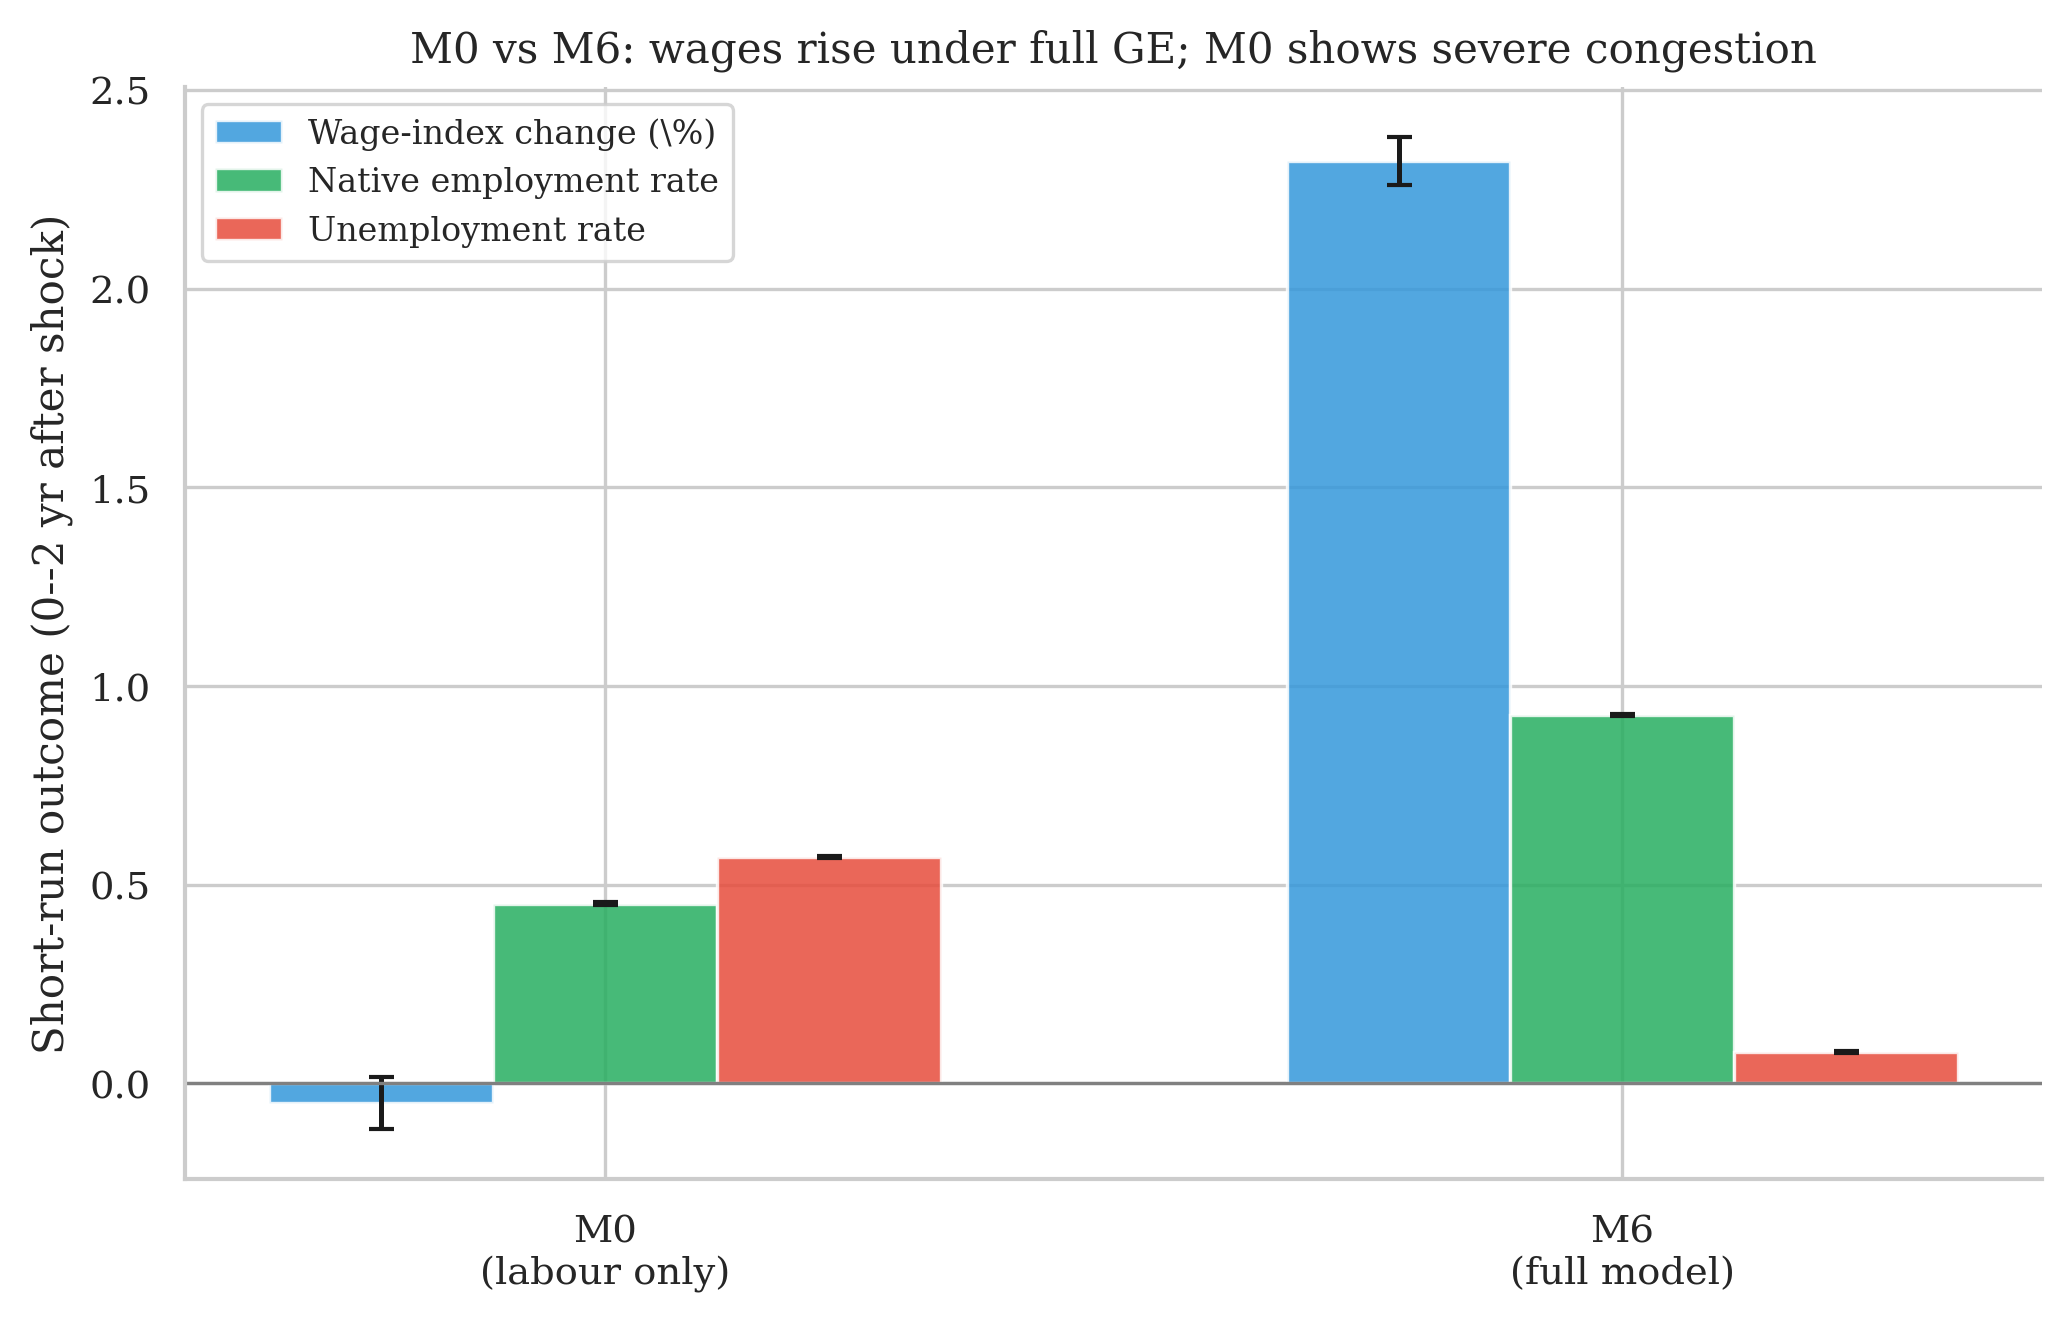
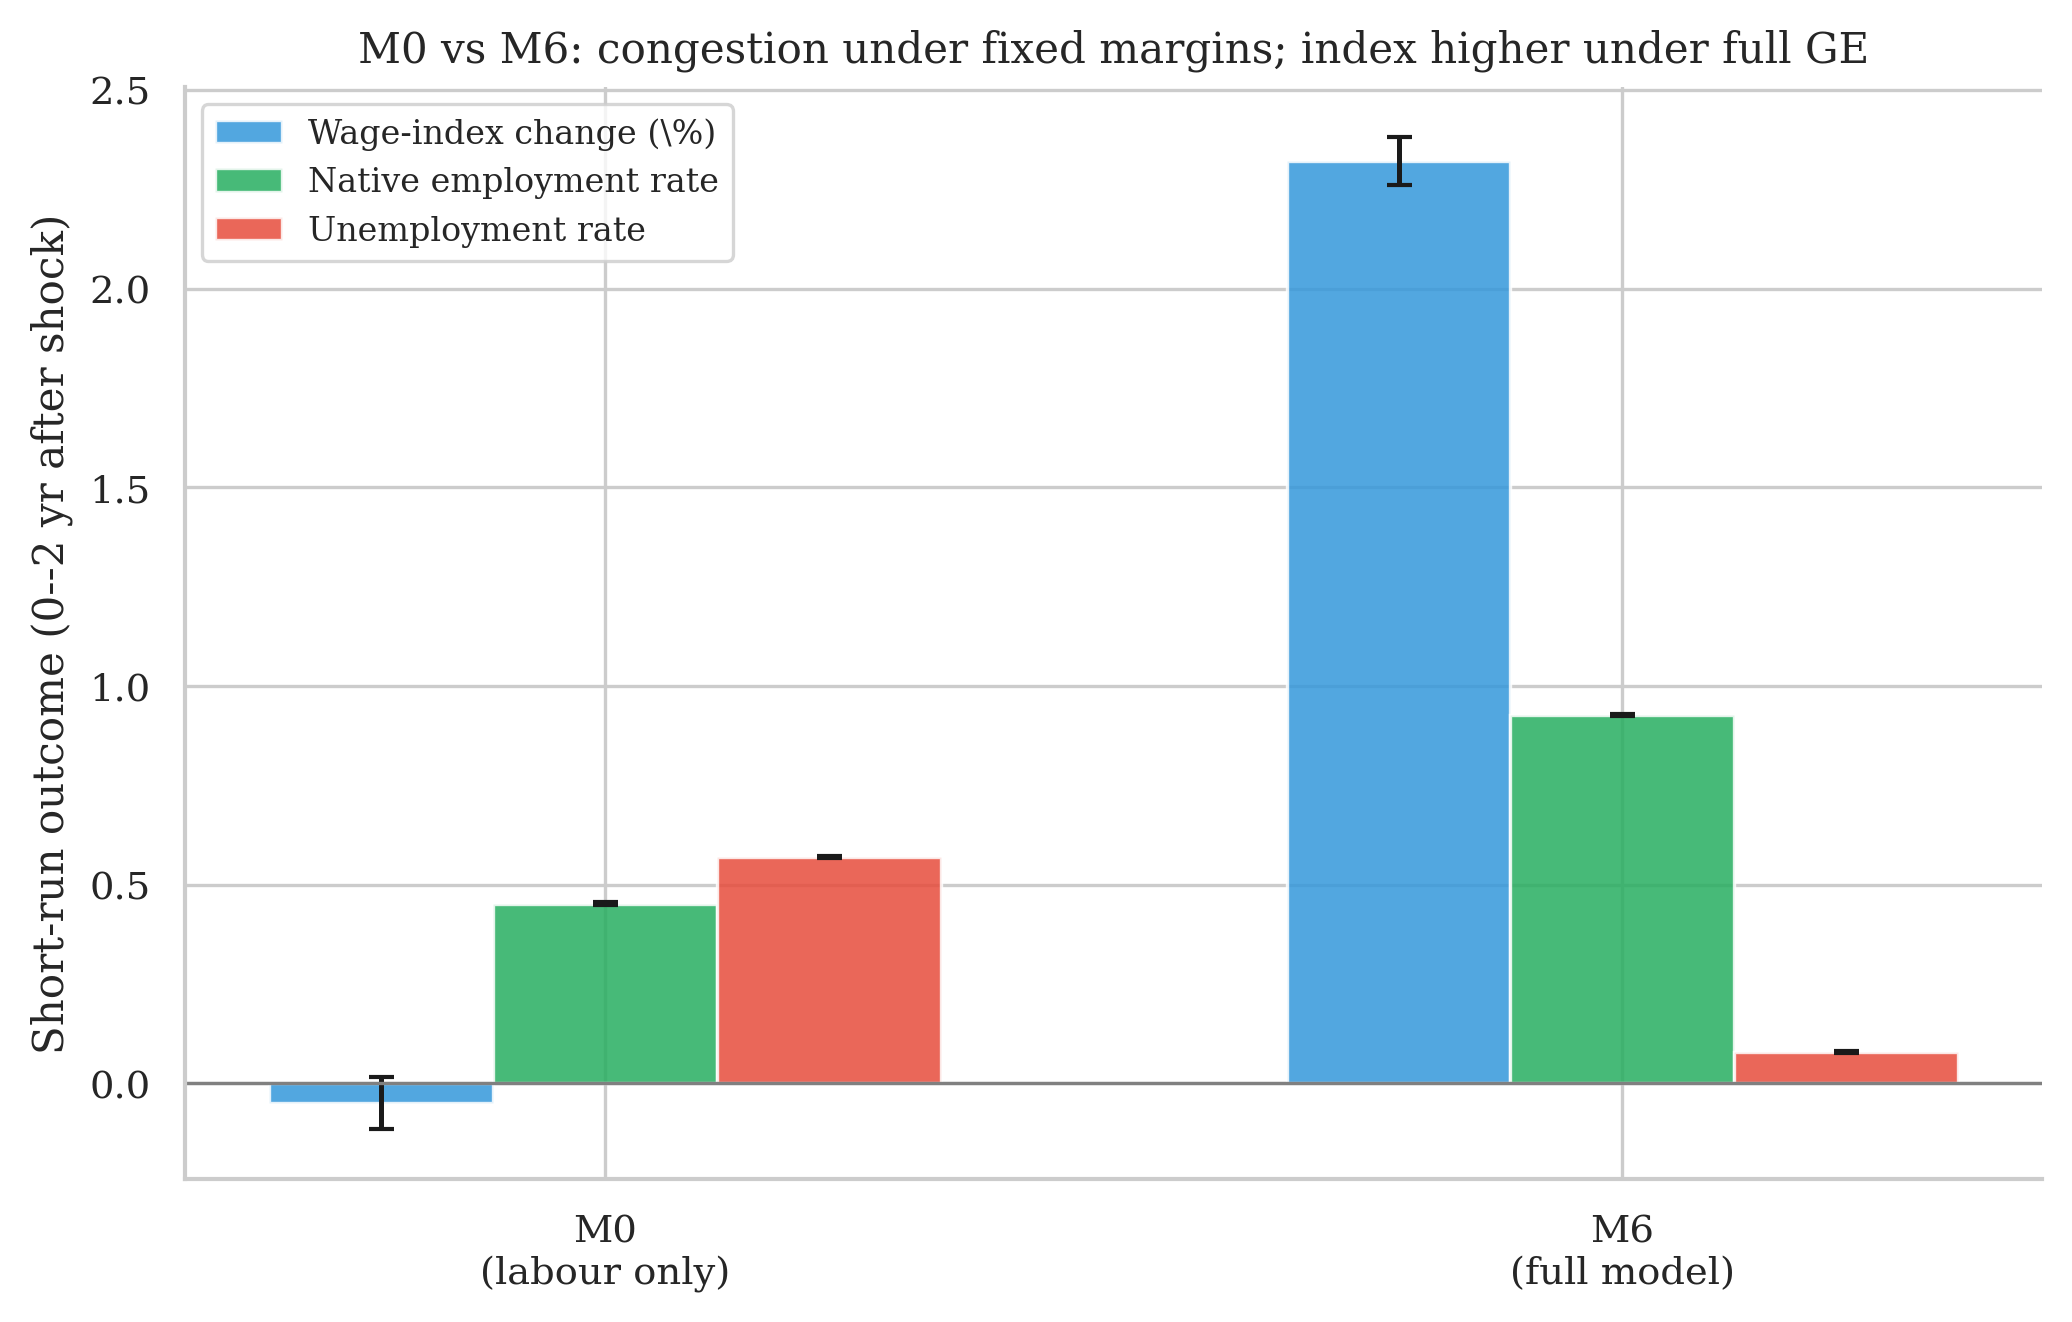
Final review: author name only, tighten scope and calibration claims.
Remove Independent Researcher; fix reproduce-vs-informed language; soften fig captions and limitations; align ODD appendix with calibration fit table.

Changed region(s): [[0.1853, 0.031, 0.8958, 0.062]]

diff --git a/paper/main.tex b/paper/main.tex
@@ -21,7 +21,7 @@
   From Labour-Supply Shock to Economic Adjustment:\\
   A Stylised Agent-Based Model of Immigration, Wages, and Firm Dynamics}
 
-\author{Scott Brodie Forsyth\\[0.5em]\small Independent Researcher}
+\author{Scott Brodie Forsyth}
 \date{July 2026}
 
 \begin{document}
@@ -71,7 +71,7 @@ Seven nested specifications (\emph{M0}--\emph{M6}) activate mechanisms sequentia
 Counterfactual immigration shocks vary in size, skill composition, substitutability, and macroeconomic state.
 Outcomes are reported by skill group and time horizon (0--2, 3--7, and 8--12 years).
 
-Parameters are chosen to reproduce stylised moments consistent with high-income OECD labour markets \citep{borjas2016,dustmann2013,peri2016}, not to replicate any single country's administrative data.
+Parameters are informed by stylised moments from the immigration and labour-market literature \citep{borjas2016,dustmann2013,peri2016}, not fitted to replicate any single country's administrative data; simulated burn-in moments can diverge from listed targets (Table~\ref{tab:calibration_fit}).
 The model is a \emph{computational laboratory}: an artificial economy in which mechanisms can be switched on or off to diagnose comparative statics.
 
 Section~\ref{sec:background} summarises evidence.
@@ -234,9 +234,8 @@ The incremental contribution of mechanism $k$ is $\Delta \bar{w}^{\text{M}_k} - 
 \subsection{Calibration targets}
 
 Table~\ref{tab:calibration} lists stylised calibration targets informed by published immigration and labour-market research.
-Parameters not directly identified are set by simulated-method-of-moments logic to approximate burn-in moments.
-Table~\ref{tab:calibration_fit} compares targets to simulated pre-shock moments under \emph{M6}: several moments---notably native employment and the native/migrant wage ratio---deviate from the listed targets.
-The artificial economy is therefore stylised rather than tightly identified; counterfactual comparisons across mechanism levels remain internally valid, but levels should not be read as calibrated to any observed economy.
+Parameters not directly identified are set heuristically with reference to Table~\ref{tab:calibration}; fit to burn-in is incomplete (Table~\ref{tab:calibration_fit}).
+The artificial economy is stylised rather than tightly identified: counterfactual comparisons across mechanism levels are internally valid, but simulated levels should not be read as calibrated to any observed economy.
 Hold-out validation against observed historical shocks is reserved for future work (Section~\ref{sec:limits}).
 
 \begin{table}[htbp]
@@ -302,7 +301,7 @@ By \emph{M6}, the short-run wage-index effect is positive (\MSixShortWage{} pp) 
 \begin{figure}[H]
   \centering
   \includegraphics[width=0.88\textwidth]{../figures/fig7_m0_m6_comparison.pdf}
-  \caption{M0 vs.\ M6: short-run wage-index change, native employment, and unemployment after a 5\% shock. Under fixed margins (\emph{M0}), congestion dominates; under full adjustment (\emph{M6}), wages rise while employment remains high in the short run but drifts down over time (Figure~\ref{fig:paths}).}
+  \caption{M0 vs.\ M6: short-run wage-index change, native employment, and unemployment after a 5\% shock. Under fixed margins (\emph{M0}), congestion dominates; under full adjustment (\emph{M6}), the wage index is higher in the short run while native employment drifts down over time (Figure~\ref{fig:paths}).}
   \label{fig:m0m6}
 \end{figure}
 
@@ -350,7 +349,7 @@ Under \emph{M6}, short-run native wage-index \emph{levels} (normalised index, no
 \begin{figure}[H]
   \centering
   \includegraphics[width=0.72\textwidth]{../figures/fig6_skill_heterogeneity.pdf}
-  \caption{Native wage-index \emph{levels} by skill tier, short run (0--2 years), \emph{M6}, 5\% shock ($N=\NReplicates{}$).}
+  \caption{Native wage-index \emph{levels} by skill tier, short run (0--2 years), \emph{M6}, 5\% shock (mechanism-ladder sample, $N=\NReplicates{}$ per replicate set).}
   \label{fig:skill}
 \end{figure}
 
@@ -387,7 +386,7 @@ Under \emph{M6}, short-run native wage-index \emph{levels} (normalised index, no
 
 \textbf{What this study can say.}
 \begin{enumerate}[label=(\roman*), nosep]
-  \item In a transparent artificial economy with stylised calibration, shutting down general-equilibrium margins yields negligible short-run wage-index changes but severe unemployment under \emph{M0}; activating demand, firm entry, and innovation can reverse the wage sign while employment dynamics remain mixed.
+  \item In a transparent artificial economy with stylised calibration, shutting down general-equilibrium margins yields negligible short-run wage-index changes but severe unemployment under \emph{M0}; activating demand and firm entry can reverse the wage-index sign in this parameterisation while employment dynamics remain mixed.
   \item Mechanism decomposition shows which \emph{switches} move the employed-native wage index in this artificial economy; it does not identify which margins dominate in real labour markets \citep{borjas2016,cadenakovak2016,albert2021}.
   \item Distributional predictions---a persistent skill gradient in native wage levels---are stable across replicates; differential effects by inflow skill mix are small under \emph{M6} in the current parameterisation.
 \end{enumerate}
@@ -444,7 +443,7 @@ All numerical values in Tables~\ref{tab:results}--\ref{tab:hypotheses} and the a
 \section{ODD protocol summary}
 \label{app:odd}
 
-\textbf{Purpose.} Diagnose mechanism dependence of immigration wage effects.
+\textbf{Purpose.} Diagnose how mechanism switches affect native employment and the employed-native wage index in an artificial economy (not causal inference for a real country).
 
 \textbf{Entities.} Workers, firms, implicit households.
 
@@ -454,7 +453,7 @@ All numerical values in Tables~\ref{tab:results}--\ref{tab:hypotheses} and the a
 
 \textbf{Design concepts.} Emergence of vacancy chains; adaptation via entry and innovation; stochastic matching.
 
-\textbf{Initialization.} Stylised employment and wage gaps from \texttt{data/calibration\_targets.json}.
+\textbf{Initialization.} Parameters informed by stylised targets in \texttt{data/calibration\_targets.json}; simulated pre-shock moments under \emph{M6} need not match those targets (Table~\ref{tab:calibration_fit}).
 
 \textbf{Submodels.} Equations~\eqref{eq:production}--\eqref{eq:entry}; search protocol in Section~\ref{sec:model}.
 

diff --git a/src/viz.py b/src/viz.py
@@ -222,7 +222,7 @@ def fig_m0_m6_comparison(ladder: pd.DataFrame) -> None:
     ax.set_xticklabels(labels)
     ax.set_ylabel("Short-run outcome (0--2 yr after shock)")
     ax.legend(frameon=True, fontsize=8, loc="upper left")
-    ax.set_title("M0 vs M6: wages rise under full GE; M0 shows severe congestion")
+    ax.set_title("M0 vs M6: congestion under fixed margins; index higher under full GE")
     fig.tight_layout()
     fig.savefig(FIGURES_DIR / "fig7_m0_m6_comparison.pdf")
     fig.savefig(FIGURES_DIR / "fig7_m0_m6_comparison.png")